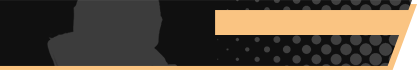
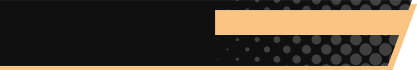
Update on UI's Image

Changed region(s): [[0.0935, 0.0, 0.4365, 0.9429]]

diff --git a/Editor/src/Util/UIElements.cpp b/Editor/src/Util/UIElements.cpp
@@ -2846,12 +2846,16 @@ namespace Tempest::UI
 		
 		
 		auto character = instance.ecs.get_if<tc::Character>(id);
+		auto characterImg = tex_map["Assets/Unit_Black.png"];
 
 		if (selected)
 		{
 			auto selectedImg = tex_map["Assets/TurnSelected.png"];
 			ImVec2 selectedMax = { Min.x + selectedImg->GetWidth(), Min.y + selectedImg->GetHeight() };
+			ImVec2 characterImgMin = { Min.x + selectedImg->GetWidth() * 0.1f, Min.y };
+			ImVec2 characterImgMax = { characterImgMin.x + characterImg->GetWidth(), characterImgMin.y + characterImg->GetHeight() };
 			window->AddImage((void*)static_cast<size_t>(selectedImg->GetID()), Min, selectedMax);
+			window->AddImage((void*)static_cast<size_t>(characterImg->GetID()), characterImgMin, characterImgMax);
 			ImVec2 TextStartPos = { Min.x + selectedImg->GetWidth() * 0.53f, Min.y + selectedImg->GetHeight() * 0.17f };
 			ImGui::PushFont(FONT_OPEN);
 
@@ -2866,7 +2870,9 @@ namespace Tempest::UI
 		{
 			auto unselectedImg = tex_map["Assets/TurnUnselected.png"];
 			ImVec2 unselectedMax = { Min.x + unselectedImg->GetWidth(), Min.y + unselectedImg->GetHeight() };
+			ImVec2 characterImgMax = { Min.x + characterImg->GetWidth(), Min.y + characterImg->GetHeight() };
 			window->AddImage((void*)static_cast<size_t>(unselectedImg->GetID()), Min, unselectedMax);
+			window->AddImage((void*)static_cast<size_t>(characterImg->GetID()), Min, characterImgMax);
 			ImVec2 TextStartPos = { Min.x + unselectedImg->GetWidth() * 0.45f, Min.y + unselectedImg->GetHeight() * 0.17f };
 			ImGui::PushFont(FONT_OPEN);
 

diff --git a/Editor/src/Window/Test/Test_UIWindow.h b/Editor/src/Window/Test/Test_UIWindow.h
@@ -136,14 +136,14 @@ namespace Tempest
 				UI::UIButton_EndTurn({ 300.f,300.f }, { 0,0 }, FONT_PARA, true);
 
 
-				//UI::CharacterTurn(instance, UNDEFINED, { 0.f,300.f });
-				//UI::CharacterTurn(instance, UNDEFINED, { 0.f,400.f },true);
-				UI::AttackSuccessUI("Defend",{ 300.f, 400.f }, 50);
+				UI::CharacterTurn(instance, UNDEFINED, { 0.f,400.f });
+				UI::CharacterTurn(instance, UNDEFINED, { 0.f,500.f },true);
+				/*UI::AttackSuccessUI("Defend",{ 300.f, 400.f }, 50);
 				UI::CharacterTurnData(instance, 3, { 0.f,500.f }, false, true);
 				if (UI::CharacterTurnData(instance, 3, { ImGui::GetWindowWidth(),500.f }, true, true))
 				{
 					LOG("CLICKED");
-				}
+				}*/
 				static bool selected = false;
 				/*auto pos = ImGui::GetCurrentWindow()->Pos;
 
